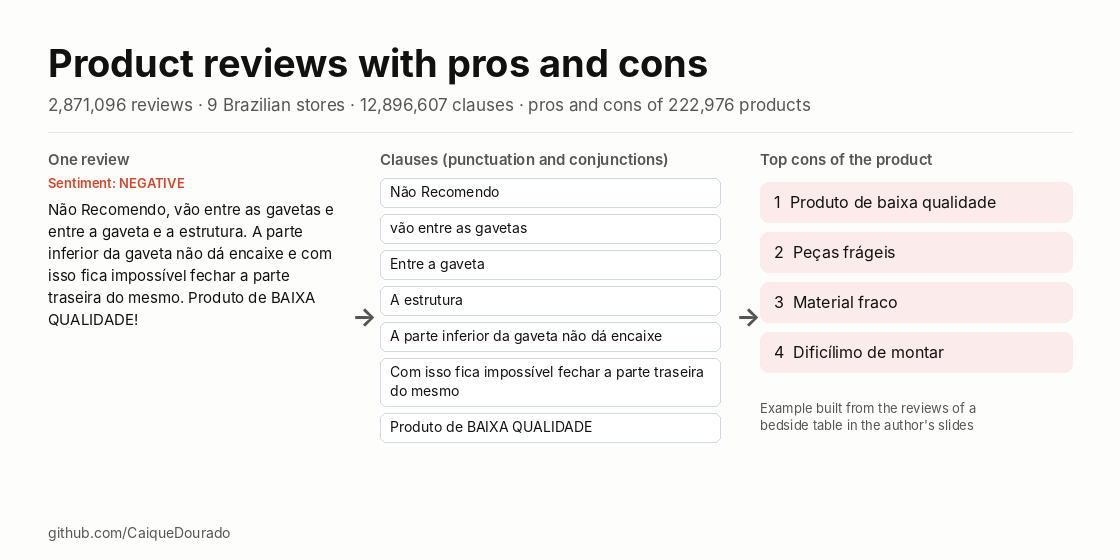
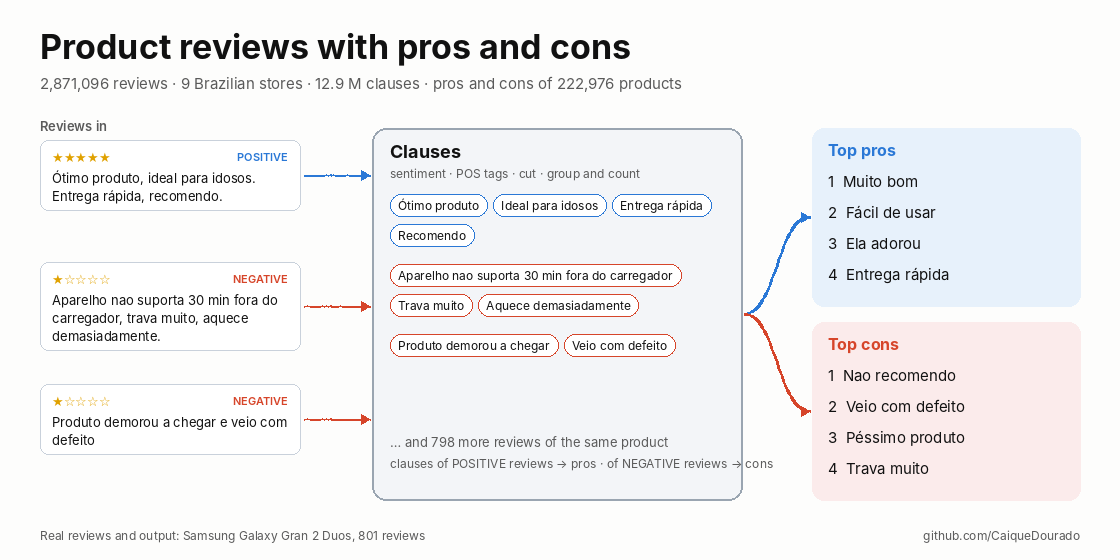
Reviews de produtos 1.0.0: documentação completa e capa nova

diff --git a/scripts/make_cover.py b/scripts/make_cover.py
@@ -1,0 +1,134 @@
+"""Cover (1120x560): three real reviews go into the pipeline, the clauses come out as top pros and cons.
+
+    python scripts/make_cover.py         # docs/img/cover.png and cover.pt-BR.png
+
+Reviews and output are real: product group 725383 in the sample.
+"""
+
+from __future__ import annotations
+
+from pathlib import Path
+
+from PIL import Image, ImageDraw, ImageFont
+
+ROOT = Path(__file__).resolve().parents[1]
+FONT = "/usr/share/fonts/opentype/inter/Inter-{}.otf"
+INK, MUTED, LINE, BG = "#111111", "#5a5a5a", "#c9d1db", "#fdfdfc"
+POS, NEG = "#2a78d6", "#d6452a"
+REVIEWS = [  # (stars, sentiment, text, clauses)
+    (5, "POSITIVE", "Ótimo produto, ideal para idosos. Entrega rápida, recomendo.",
+     ["Ótimo produto", "Ideal para idosos", "Entrega rápida", "Recomendo"]),
+    (1, "NEGATIVE", "Aparelho nao suporta 30 min fora do carregador, trava muito, aquece demasiadamente.",
+     ["Aparelho nao suporta 30 min fora do carregador", "Trava muito", "Aquece demasiadamente"]),
+    (1, "NEGATIVE", "Produto demorou a chegar e veio com defeito",
+     ["Produto demorou a chegar", "Veio com defeito"]),
+]
+PROS = ["Muito bom", "Fácil de usar", "Ela adorou", "Entrega rápida"]
+CONS = ["Nao recomendo", "Veio com defeito", "Péssimo produto", "Trava muito"]
+TEXT = {
+    "en": {"suffix": "", "title": "Product reviews with pros and cons",
+           "sub": "2,871,096 reviews · 9 Brazilian stores · 12.9 M clauses · pros and cons of 222,976 products",
+           "in": "Reviews in", "machine": "Clauses", "steps": "sentiment · POS tags · cut · group and count",
+           "pros": "Top pros", "cons": "Top cons", "more": "… and 798 more reviews of the same product",
+           "rule": "clauses of POSITIVE reviews → pros · of NEGATIVE reviews → cons",
+           "note": "Real reviews and output: Samsung Galaxy Gran 2 Duos, 801 reviews"},
+    "pt": {"suffix": ".pt-BR", "title": "Reviews de produtos com prós e contras",
+           "sub": "2.871.096 reviews · 9 lojas brasileiras · 12,9 mi cláusulas · prós e contras de 222.976 produtos",
+           "in": "Entram reviews", "machine": "Cláusulas", "steps": "sentimento · etiquetas · corte · agrupar e contar",
+           "pros": "Principais prós", "cons": "Principais contras", "more": "… e mais 798 reviews do mesmo produto",
+           "rule": "reviews POSITIVE → prós · reviews NEGATIVE → contras",
+           "note": "Reviews e resultado reais: Samsung Galaxy Gran 2 Duos, 801 reviews"},
+}
+
+
+def font(weight: str, size: int):
+    return ImageFont.truetype(FONT.format(weight), size)
+
+
+def wrap(d, text, f, width):
+    lines, line = [], ""
+    for w in text.split():
+        test = (line + " " + w).strip()
+        if d.textlength(test, font=f) > width and line:
+            lines.append(line)
+            line = w
+        else:
+            line = test
+    return lines + [line]
+
+
+def curve(d, a, b, color, width=2):
+    (x0, y0), (x1, y1) = a, b
+    pts = []
+    for i in range(31):
+        t = i / 30
+        cx0, cx1 = x0 + (x1 - x0) * 0.5, x0 + (x1 - x0) * 0.5
+        x = (1 - t) ** 3 * x0 + 3 * (1 - t) ** 2 * t * cx0 + 3 * (1 - t) * t ** 2 * cx1 + t ** 3 * x1
+        y = (1 - t) ** 3 * y0 + 3 * (1 - t) ** 2 * t * y0 + 3 * (1 - t) * t ** 2 * y1 + t ** 3 * y1
+        pts.append((x, y))
+    d.line(pts, fill=color, width=width)
+    d.polygon([(x1, y1), (x1 - 9, y1 - 5), (x1 - 9, y1 + 5)], fill=color)
+
+
+def draw(t: dict) -> None:
+    im = Image.new("RGB", (1120, 560), BG)
+    d = ImageDraw.Draw(im)
+    d.text((40, 26), t["title"], font=font("Bold", 34), fill=INK)
+    d.text((40, 74), t["sub"], font=font("Regular", 15), fill=MUTED)
+
+    # reviews (left)
+    d.text((40, 118), t["in"], font=font("SemiBold", 13), fill=MUTED)
+    ys, anchors = [140, 262, 384], []
+    body = font("Regular", 13)
+    for (stars, sent, text, _), y in zip(REVIEWS, ys):
+        color = POS if sent == "POSITIVE" else NEG
+        lines = wrap(d, text, body, 236)
+        h = 34 + 18 * len(lines)
+        d.rounded_rectangle((40, y, 300, y + h), radius=8, fill="#ffffff", outline=LINE)
+        d.text((52, y + 9), "★" * stars + "☆" * (5 - stars), font=ImageFont.truetype("/usr/share/fonts/truetype/dejavu/DejaVuSans.ttf", 13), fill="#e0a100")
+        tw = d.textlength(sent, font=font("SemiBold", 11))
+        d.text((288 - tw, y + 10), sent, font=font("SemiBold", 11), fill=color)
+        for i, line in enumerate(lines):
+            d.text((52, y + 30 + 18 * i), line, font=body, fill=INK)
+        anchors.append((300, y + h / 2, color))
+
+    # machine (middle)
+    mx0, my0, mx1, my1 = 372, 128, 742, 500
+    d.rounded_rectangle((mx0, my0, mx1, my1), radius=14, fill="#f3f5f8", outline="#9aa5b1", width=2)
+    d.text((mx0 + 18, my0 + 12), t["machine"], font=font("Bold", 18), fill=INK)
+    d.text((mx0 + 18, my0 + 38), t["steps"], font=font("Regular", 12), fill=MUTED)
+    y, chip = my0 + 66, font("Regular", 12)
+    for stars, sent, _, clauses in REVIEWS:
+        color = POS if sent == "POSITIVE" else NEG
+        x = mx0 + 18
+        for c in clauses:
+            w = d.textlength(c, font=chip) + 16
+            if x + w > mx1 - 16:
+                x, y = mx0 + 18, y + 30
+            d.rounded_rectangle((x, y, x + w, y + 22), radius=11, fill="#ffffff", outline=color)
+            d.text((x + 8, y + 4), c, font=chip, fill=INK)
+            x += w + 6
+        y += 40
+    d.text((mx0 + 18, my1 - 66), t["more"], font=font("Regular", 13), fill=MUTED)
+    d.text((mx0 + 18, my1 - 44), t["rule"], font=font("Regular", 12), fill=MUTED)
+    for x, yy, color in anchors:
+        curve(d, (x + 4, yy), (mx0 - 2, min(max(yy, my0 + 40), my1 - 40)), color)
+
+    # outputs (right)
+    for (title, items, color, fill, y0) in ((t["pros"], PROS, POS, "#e7f1fb", 128), (t["cons"], CONS, NEG, "#fbebeb", 322)):
+        d.rounded_rectangle((812, y0, 1080, y0 + 178), radius=12, fill=fill)
+        d.text((828, y0 + 12), title, font=font("Bold", 16), fill=color)
+        for i, item in enumerate(items, 1):
+            d.text((828, y0 + 44 + 31 * i - 31), f"{i}  {item}", font=font("Regular", 15), fill=INK)
+        curve(d, (mx1 + 2, (my0 + my1) / 2), (810, y0 + 89), color, 3)
+
+    d.text((40, 528), t["note"], font=font("Regular", 12), fill=MUTED)
+    tw = d.textlength("github.com/CaiqueDourado", font=font("Regular", 12))
+    d.text((1080 - tw, 528), "github.com/CaiqueDourado", font=font("Regular", 12), fill=MUTED)
+    im.save(ROOT / "docs" / "img" / f"cover{t['suffix']}.png")
+
+
+if __name__ == "__main__":
+    for t in TEXT.values():
+        draw(t)
+    print("covers written")

diff --git a/scripts/make_figures.py b/scripts/make_figures.py
@@ -1,4 +1,4 @@
-"""Figures for README and Kaggle (EN and PT): cover, sentiment by stars. Reads stats.json.
+"""Figure for README and Kaggle (EN and PT): sentiment by stars. Reads stats.json. Cover: make_cover.py.
 
     python scripts/make_figures.py
 """
@@ -134,8 +134,7 @@ def main() -> None:
     stats = json.loads((ROOT / "stats.json").read_text(encoding="utf-8"))
     OUT.mkdir(parents=True, exist_ok=True)
     for lang, t in TEXT.items():
-        chart(stats, lang, t)
-        cover(stats, lang, t)
+        chart(stats, lang, t)  # the cover is drawn by make_cover.py
     print("figures written to", OUT)
 
 

diff --git a/docs/kaggle-description.md b/docs/kaggle-description.md
@@ -1,6 +1,6 @@
 **Reviews de produtos (pt-BR) com prós e contras**: 2,87 milhões de avaliações de 9 lojas brasileiras, com sentimento, 12,9 milhões de cláusulas e os prós e contras de 222 mil produtos. **Brazilian product reviews** with sentiment, clauses and pros and cons per product.
 
-![Pros and cons from reviews](https://raw.githubusercontent.com/CaiqueDourado/reviews-produtos-ptbr/main/docs/img/cover.png)
+![Pros and cons from reviews](https://raw.githubusercontent.com/CaiqueDourado/reviews-produtos-ptbr/main/docs/img/cover.png?v=2)
 
 Reviews collected from 2017 to 2022 from the product pages of Americanas, Magazine Luiza, Submarino, Shoptime, Casas Bahia, Extra, Leroy Merlin, Ponto Frio and Fast Shop (written 2008–2019), for the author's review site *É bom? Vale a pena?* and data lake. About 22 times the size of B2W-Reviews01, the best-known Portuguese review dataset.
 
